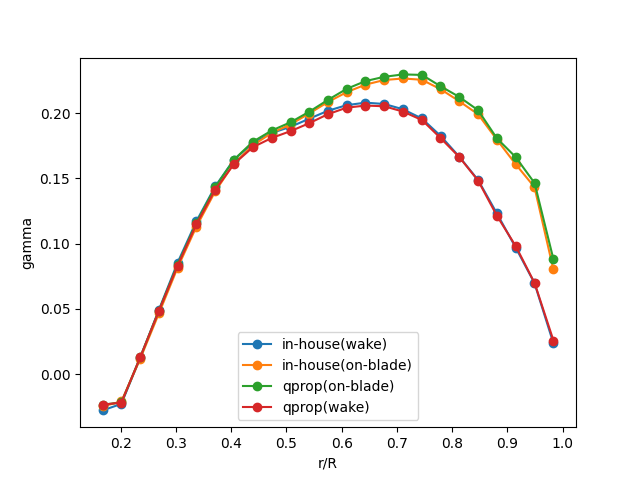
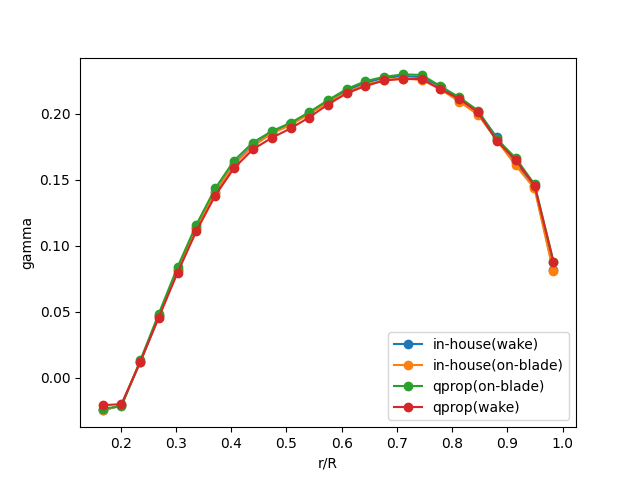
F=1にするとGammaも一致する

diff --git a/perform_analysis_qprop.py b/perform_analysis_qprop.py
@@ -115,7 +115,7 @@ if qpropFactorFlag:
     lamda = r / R * Wa / Wt
     f = B / 2 * (1 - r/R) / lamda
     F = 2 / math.pi * np.arccos(np.clip(np.exp(-f), -1, 1))
-    gamma = vt * 4 * math.pi * r / B * F * np.sqrt(1 + (4 * lamda * R / (math.pi * B * r ))**2)
+    gamma = vt * 4 * math.pi * r / B #* F * np.sqrt(1 + (4 * lamda * R / (math.pi * B * r ))**2)
 else:
     lamda = V / R / omega 
     f = B / 2 * (1 - r/R) / lamda *np.sqrt(lamda**2 + 1)
@@ -139,7 +139,7 @@ qprop_vt = omega * r - qprop_Wt
 qprop_r = qprop_r_R * R
 qprop_Ut = omega * qprop_r
 qprop_U = np.sqrt(V**2 + qprop_Ut**2)
-qprop_gamma = qprop_vt * 4 * math.pi * r / B * qprop_F * np.sqrt(1 + (4 * qprop_lamda * R / (math.pi * B * r ))**2)
+qprop_gamma = qprop_vt * 4 * math.pi * r / B #* qprop_F * np.sqrt(1 + (4 * qprop_lamda * R / (math.pi * B * r ))**2)
 
 # plot F
 plt.clf()
